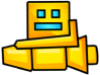
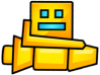
save

diff --git a/src/Board.cpp b/src/Board.cpp
@@ -9,7 +9,6 @@ Board::Board(sf::RenderWindow& window)
     m_background.scale(1.6f, 1.6f);
 
     m_moving_objects.push_back(std::make_unique<Player>(m_world, PlayerBox));
-    //createPlayerBox();
     createLevel();
 }
 
@@ -41,26 +40,7 @@ void Board::moveObjects()
         //handleCollisions(*m_moving_objects[index]);
     }
 
-    //m_player_box.setPosition(SCALE * m_player_body->GetPosition().x, SCALE * m_player_body->GetPosition().y);
-    //m_player_box.setRotation(m_player_body->GetAngle() * 180 / b2_pi);
 }
-
-//void Board::jumpPlayer()
-//{
-//    m_player_body->ApplyLinearImpulseToCenter(b2Vec2(0.0f, -JUMP_FORCE), true);
-//}
-//
-//void Board::movePlayerRight()
-//{
-//    float currentSpeed_y = m_player_body->GetLinearVelocity().y;
-//    m_player_body->SetLinearVelocity({ MOVEMENT_SPEED, currentSpeed_y });
-//}
-//
-//void Board::movePlayerLeft()
-//{
-//    float currentSpeed_y = m_player_body->GetLinearVelocity().y;
-//    m_player_body->SetLinearVelocity({ -MOVEMENT_SPEED, currentSpeed_y });
-//}
 
 
 b2Vec2 Board::getPlayerPosition()
@@ -88,30 +68,6 @@ void Board::updateMovingDirections()
     }
 }
 
-//void Board::createPlayerBox()
-//{
-//    m_player_box.setTexture(Resources::instance().getGameTexture(PlayerBox));
-//    sf::Vector2f spriteSize(m_player_box.getTextureRect().width, m_player_box.getTextureRect().height);
-//    m_player_box.setOrigin(spriteSize.x / 2, spriteSize.y / 2);
-//    m_player_box.setPosition(WINDOW_WIDTH / 3, WINDOW_HEIGHT / 2);
-//   
-//
-//    b2BodyDef bodyDef;
-//    bodyDef.position.Set(m_player_box.getPosition().x / SCALE, m_player_box.getPosition().y / SCALE); 
-//    bodyDef.type = b2_dynamicBody; // Set the body type to dynamic
-//
-//    b2Body* body = m_world.CreateBody(&bodyDef);
-//    b2PolygonShape shape;
-//    sf::Vector2u boxSize = Resources::instance().getGameTexture(PlayerBox).getSize();
-//    shape.SetAsBox(boxSize.x / 2.0f / SCALE, boxSize.y / 2.0f / SCALE);
-//    b2FixtureDef fixtureDef;
-//    fixtureDef.shape = &shape;
-//    fixtureDef.density = 1.0f; 
-//    fixtureDef.friction = 0.3f;
-//    body->CreateFixture(&fixtureDef);
-//
-//    m_player_body = body;
-//}
 
 void Board::createLevel()
 {

diff --git a/src/Player.cpp b/src/Player.cpp
@@ -7,6 +7,7 @@ Player::Player(b2World& world, GameTextures texture)
 	:MovingObject(world, texture),
      m_state(std::make_unique<BoxState>())
 {
+    shipState();
 }
 
 void Player::move()
@@ -39,8 +40,26 @@ void Player::updateDirection()
 
 void Player::shipState()
 {
-    //to change
-    m_object.setTexture(Resources::instance().getGameTexture(PlayerShip));
+    m_object.setTexture(Resources::instance().getGameTexture(PlayerShip), true);
+    sf::Vector2f spriteSize(m_object.getTextureRect().width, m_object.getTextureRect().height);
+    m_object.setOrigin(spriteSize.x / 2, spriteSize.y / 2);
+
+    //create new shape
+    b2PolygonShape shape;
+    sf::Vector2u boxSize = Resources::instance().getGameTexture(PlayerShip).getSize();
+    shape.SetAsBox(boxSize.x / 2.0f / SCALE, boxSize.y / 2.0f / SCALE);
+
+    //distroy the old fixture
+    m_object_body->DestroyFixture(m_object_body->GetFixtureList());
+
+    //change the fixture
+    b2FixtureDef fixtureDef;
+    fixtureDef.shape = &shape;
+    fixtureDef.density = 1.0f;
+    fixtureDef.friction = 0.3f;
+
+    m_object_body->CreateFixture(&fixtureDef);
+
     m_state.reset(new ShipState());
 }
 

diff --git a/src/ShipState.cpp b/src/ShipState.cpp
@@ -6,8 +6,10 @@ void ShipState::move(Direction direction, b2Body* body)
     {
     case Up:
     {
-        float currentSpeed_x = body->GetLinearVelocity().x;
-        body->SetLinearVelocity({ currentSpeed_x, MOVEMENT_SPEED }); //tochange movement speed
+        if (true)//to change
+        {
+            body->ApplyLinearImpulseToCenter(b2Vec2(0.0f, -SHIP_JUMP_FORCE), true);
+        }
         break;
     }
     case Right:
@@ -16,7 +18,6 @@ void ShipState::move(Direction direction, b2Body* body)
         body->SetLinearVelocity({ MOVEMENT_SPEED, currentSpeed_y });
         break;
     }
-
     case Left:
     {
         float currentSpeed_y = body->GetLinearVelocity().y;

diff --git a/src/BoxState.cpp b/src/BoxState.cpp
@@ -8,7 +8,7 @@ void BoxState::move(Direction direction, b2Body* body)
     {
         if (true)//to change
         {
-            body->ApplyLinearImpulseToCenter(b2Vec2(0.0f, -JUMP_FORCE), true);
+            body->ApplyLinearImpulseToCenter(b2Vec2(0.0f, -BOX_JUMP_FORCE), true);
         }
         break;
     }
@@ -18,7 +18,6 @@ void BoxState::move(Direction direction, b2Body* body)
         body->SetLinearVelocity({ MOVEMENT_SPEED, currentSpeed_y });
         break;
     }
-
     case Left:
     {
         float currentSpeed_y = body->GetLinearVelocity().y;

diff --git a/include/Resources.h b/include/Resources.h
@@ -30,7 +30,8 @@ const int WINDOW_WIDTH = 1400;
 
 //physics
 const float SCALE = 30.f;
-const float JUMP_FORCE = 0.7f;// 25.f;
+const float BOX_JUMP_FORCE =  0.7f;// 25.f;
+const float SHIP_JUMP_FORCE = 5.f;
 const float MOVEMENT_SPEED = 7;
 
 //game object by color

diff --git a/src/MovingObject.cpp b/src/MovingObject.cpp
@@ -30,6 +30,7 @@ MovingObject::MovingObject(b2World& world, GameTextures texture)
 
 MovingObject::~MovingObject()
 {
+    //m_world.DestroyBody(m_object_body);
 }
 
 
